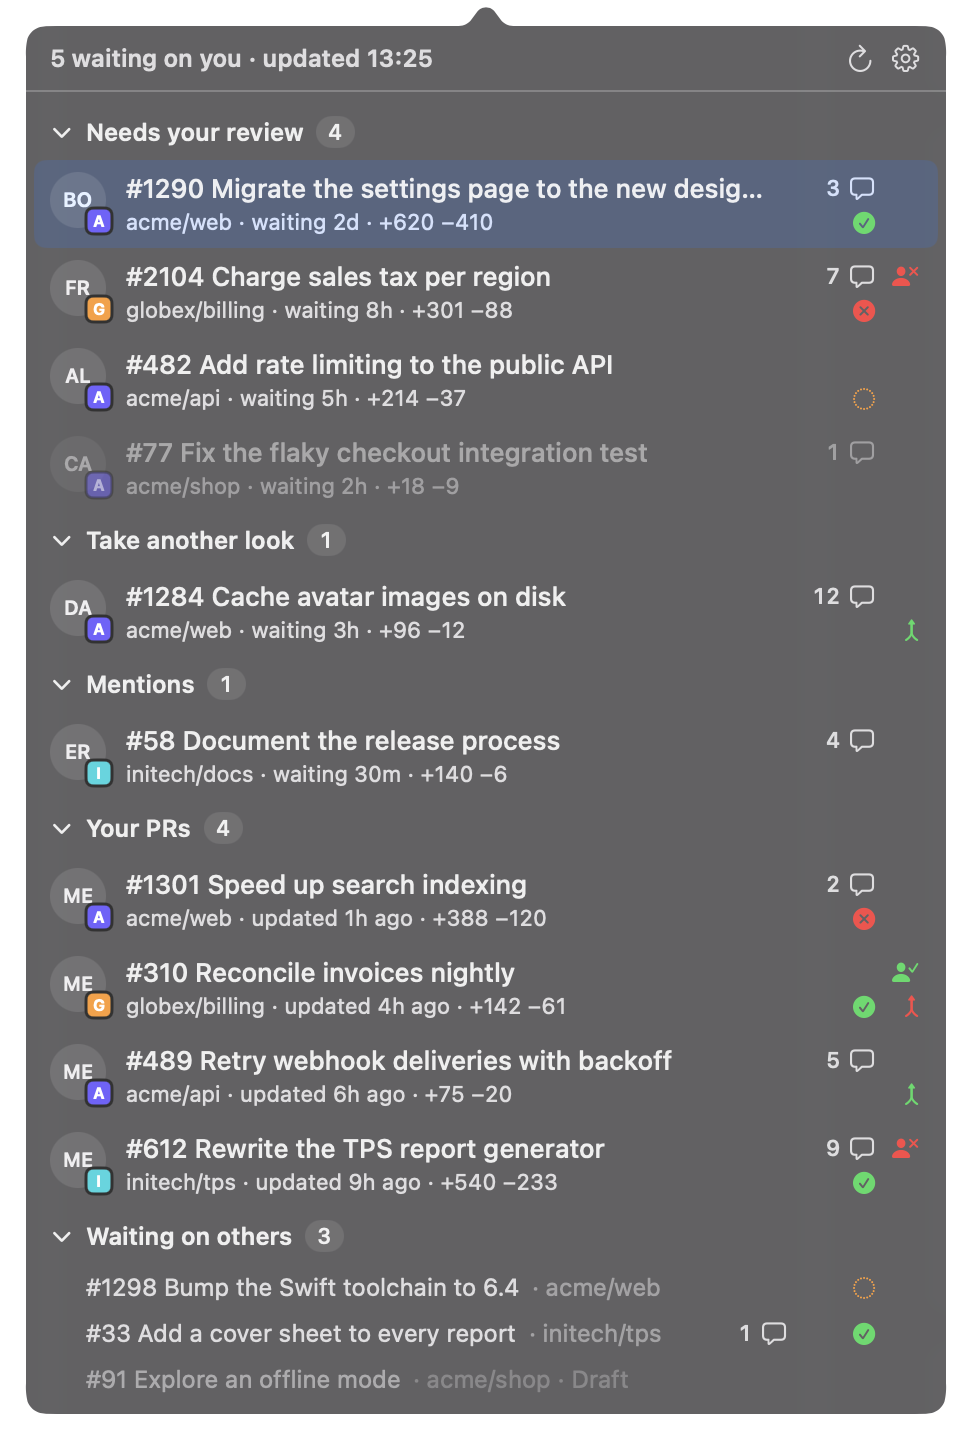
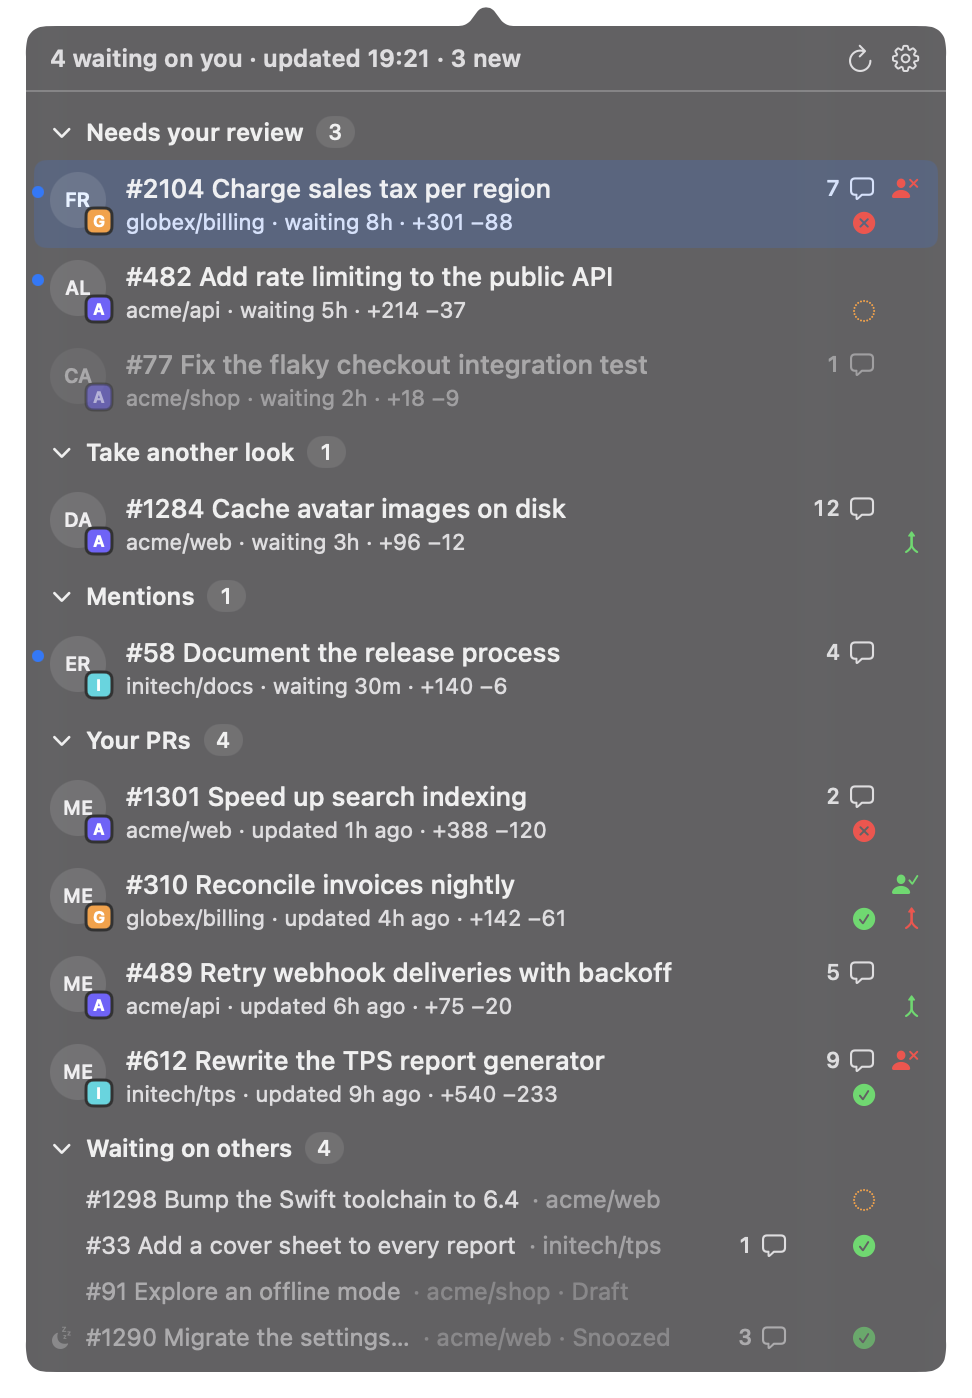
docs: describe snooze, new-row marks, notifications and compact rows

diff --git a/README.md b/README.md
@@ -38,7 +38,7 @@ third-party OAuth apps but have approved the GitHub CLI. PRInbox never reads, st
   - **Mentions:** someone mentioned you on their PR.
   - **Your PRs:** yours that need you: changes requested, merge conflicts, CI is red, or approved and
     ready to merge.
-  - **Waiting on others:** the rest of yours, one quiet line each.
+  - **Waiting on others:** the rest of yours, one quiet line each, plus anything you snoozed.
 - **Rows that answer "what, where and how long":** author avatar (with the organization's avatar in its
   corner when your inbox spans more than one organization), `org/repo` (same condition), time waiting (counted from when
   your review was requested), and lines added and removed.
@@ -47,8 +47,15 @@ third-party OAuth apps but have approved the GitHub CLI. PRInbox never reads, st
   conflicts). Hover a mark for its meaning.
 - **Group by organization** (off by default): each section groups its rows under a thin separator with
   the organization's color, name and count.
-- **Keyboard first:** ↑/↓, Enter to open, R to refresh, Esc to close, and a global shortcut
-  (⌃⌥P by default).
+- **Snooze:** `S` (or right-click) parks a PR until something changes on it. It moves to Waiting on others,
+  leaves the count, and comes back by itself when the PR is updated; `U` brings it back sooner. Snoozes are
+  kept in `~/Library/Application Support/prinbox/state.json`.
+- **New since your last look:** rows that appeared or changed since you last closed the popover carry a dot,
+  and the header counts them.
+- **Notifications** (off by default): one banner per refresh when new review requests arrive; clicking it
+  opens the PR (or the popover, when several arrived at once).
+- **Compact rows** (off by default): every section as one-line rows, with the waiting time.
+- **Keyboard first:** ↑/↓, Enter to open, S to snooze, U to unsnooze, R to refresh, Esc to close, and a global shortcut (⌃⌥P by default).
 - **A real menu-bar popover:** tiling window managers such as OmniWM, AeroSpace and yabai leave it alone.
 - **Clear setup help:** when gh is missing or signed out, the popover shows the exact commands, and
   PRInbox recovers by itself once they are done.
@@ -97,9 +104,13 @@ Left-click opens the popover. Right-click offers Refresh now and Quit.
 |---|---|
 | ↑ / ↓ | move the selection (wraps) |
 | Enter | open the selected PR in your browser, or fold/unfold a section header |
+| S | snooze the selected PR until it changes |
+| U | unsnooze the selected PR |
 | R | refresh now |
 | Esc | close the popover, or leave Settings |
 | ⌃⌥P | open the popover from anywhere (change it in Settings) |
+
+Right-click a row for Open on GitHub, Snooze until it changes (or Unsnooze) and Copy link.
 
 The global shortcut uses Carbon hot keys and needs no Accessibility permission. macOS lets apps share a
 shortcut silently: Pullover also defaults to ⌃⌥P, so if you run both, give one of them another shortcut.
@@ -126,13 +137,15 @@ When this override is set, PRInbox uses only that path. Remove it with
 ### Settings
 
 Open Settings with the gear in the popover. It holds the global shortcut, launch at login, **Group by
-organization**, **Show organization avatars**, the detected `gh` path, the version and Quit. Settings
-stay inside the popover, so there is never a window for a tiling window manager to grab.
+organization**, **Show organization avatars**, **Compact rows**, **Notify about new review requests**, the
+detected `gh` path, the version and Quit. Turning notifications on asks macOS for permission once; if you
+decline, Settings says where to turn them on. Settings stay inside the popover, so there is never a window
+for a tiling window manager to grab.
 
 ### Command line
 
 ```sh
-/Applications/PRInbox.app/Contents/MacOS/Prinbox --print   # print your inbox once
+/Applications/PRInbox.app/Contents/MacOS/Prinbox --print   # print your inbox once (snoozed PRs show as such)
 /Applications/PRInbox.app/Contents/MacOS/Prinbox --demo    # run with sample data
 ```
 
@@ -144,7 +157,9 @@ stay inside the popover, so there is never a window for a tiling window manager 
   GitHub API calls (your inbox every five minutes, the latest PRInbox release once a day) and avatar
   downloads from `avatars.githubusercontent.com` (authors and repository owners).
 - **Local data:** avatars are cached in `~/Library/Caches/io.github.creeonix.prinbox`. Settings live in
-  the app's user defaults.
+  the app's user defaults. Snoozes and the "seen" ledger live in
+  `~/Library/Application Support/prinbox/state.json`, a small JSON file keyed by PR id; `make uninstall`
+  removes all three.
 
 ## Build from source
 
@@ -190,10 +205,9 @@ Other targets:
 
 ## Roadmap
 
-- Snooze a PR until something new happens on it.
 - "Replies to you" from review threads.
 - Stacked PR chains.
-- A compact layout.
+- A smarter wake for snoozed PRs (a reply or a new commit, not any change).
 - An MCP server, so AI agents can read your review queue.
 
 ## Credits

diff --git a/docs/manual-checklist.md b/docs/manual-checklist.md
@@ -6,7 +6,7 @@ Run them before a release.
 - [ ] The popover opens anchored under the icon; the tiling window manager leaves it alone.
 - [ ] The popover draws above bars that use the pop-up window level (for example OmniWM's workspace bar).
 - [ ] Clicking outside closes the popover.
-- [ ] ↑/↓ move the selection, Enter opens a PR and closes the popover, R refreshes, Esc closes.
+- [ ] ↑/↓ move the selection, Enter opens a PR and closes the popover, S snoozes, U unsnoozes, R refreshes, Esc closes.
 - [ ] After Esc (or closing with the shortcut), typing goes to the app you were in before.
 - [ ] Clicking the icon while the popover is open closes it (it does not reopen).
 - [ ] Row tooltips (full owner/name) draw above the popover.
@@ -28,3 +28,16 @@ Run them before a release.
 - [ ] Start recording a shortcut, leave Settings with the back button: the old shortcut opens the popover again at once.
 - [ ] Change the login item in System Settings > General > Login Items, reopen Settings: the toggle shows the new state.
 - [ ] With the network off, open the popover (initials show); turn the network on, wait five minutes, reopen: avatars load.
+- [ ] S on a selected PR moves it to Waiting on others with the moon glyph and "Snoozed"; the selection lands on the next row; the badge count drops.
+- [ ] U on the snoozed row brings it back to its section with its original waiting time.
+- [ ] Right-clicking a row opens the menu inside the popover; Open on GitHub, Snooze until it changes (Unsnooze on a snoozed row) and Copy link work.
+- [ ] A snooze survives quitting and relaunching PRInbox; `~/Library/Application Support/prinbox/state.json` lists it.
+- [ ] Pushing a commit (or commenting) on a snoozed PR wakes it on the next refresh, marked with a dot.
+- [ ] `Prinbox --print` shows the snoozed PR under Waiting on others as "· Snoozed".
+- [ ] After a change on GitHub, the row shows the dot and the header says "· 1 new"; closing and reopening the popover clears both.
+- [ ] Settings > Notify about new review requests: turning it on shows the macOS permission prompt; declining shows the note under the toggle.
+- [ ] With the popover closed, a new review request gives one banner (title, org/repo); clicking it opens the PR. Two at once give one banner that opens the popover.
+- [ ] Nothing fires while the popover is open; the rows get dots instead.
+- [ ] `swift run Prinbox` with notifications on does not crash, and Settings says they are not available.
+- [ ] Settings > Compact rows: every section shows one-line rows with the age; ↑/↓ and Enter still work; turning it off restores the full rows.
+- [ ] VoiceOver reads an organization separator as "acme, 3 pull requests".
